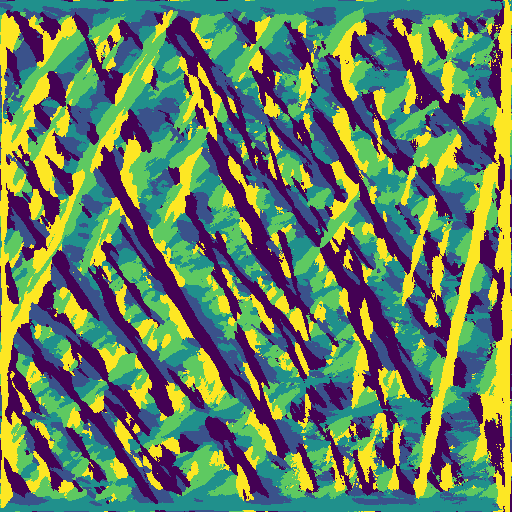
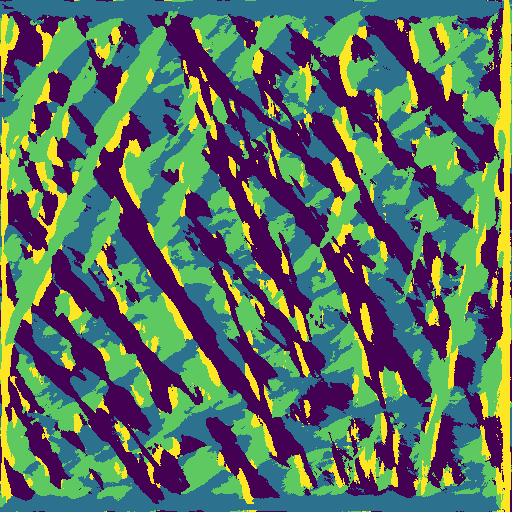
v2
v2

diff --git a/main.py b/main.py
@@ -47,7 +47,7 @@ def pol2cart(theta, rho):
 
 
 nBands = 10
-mSize = 100
+mSize = 60
 mzSize = 5
 filts = np.ones((nBands, 1))
 #print("filts değerli :")
@@ -184,9 +184,6 @@ for i in range(0,512):
 print('matris2', colAssignment)
 #plt.imsave("test.png",colAssignment)
 plt.imsave("nothasta_yönelim.png",colAssignment)
-#cv2.imshow("fffff", colAssignment)
-#cv2.imshow("sssss", maxInColumns)
-
 
 for i in range(1,8,3):
     new_name="saglikli"+str(i)+".png"
@@ -203,7 +200,7 @@ _, im = cv2.threshold(im, 120, 255, cv2.THRESH_BINARY_INV)
 plt.subplot(2, 2, 2)
 plt.imshow(im, cmap="gray")
 
-im = cv2.morphologyEx(im, cv2.MORPH_OPEN, np.ones([20, 20]))  # gurultuden kurtul
+im2 = cv2.morphologyEx(im, cv2.MORPH_OPEN, np.ones([1,5]))  # gurultuden kurtul
 _, comp = cv2.connectedComponents(im)  # connected components analizi
 plt.subplot(2, 2, 3)
 plt.imshow(im, cmap="gray")
